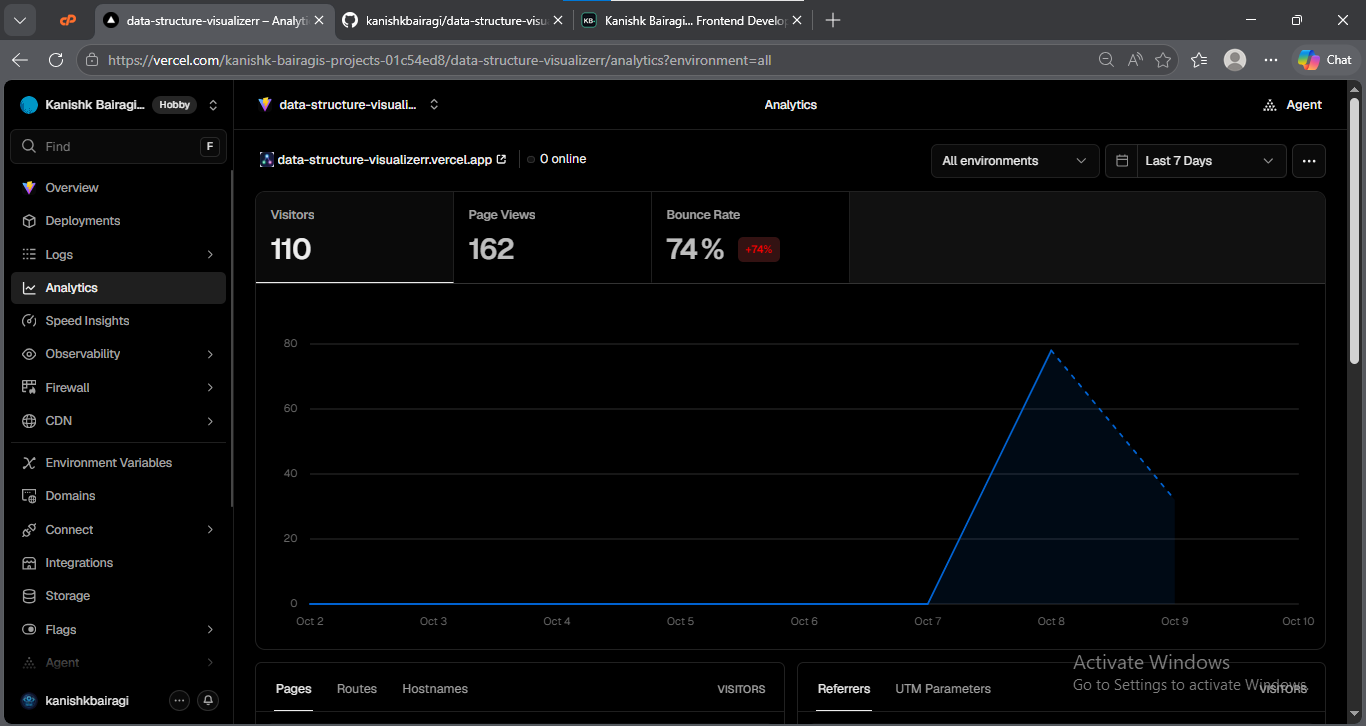
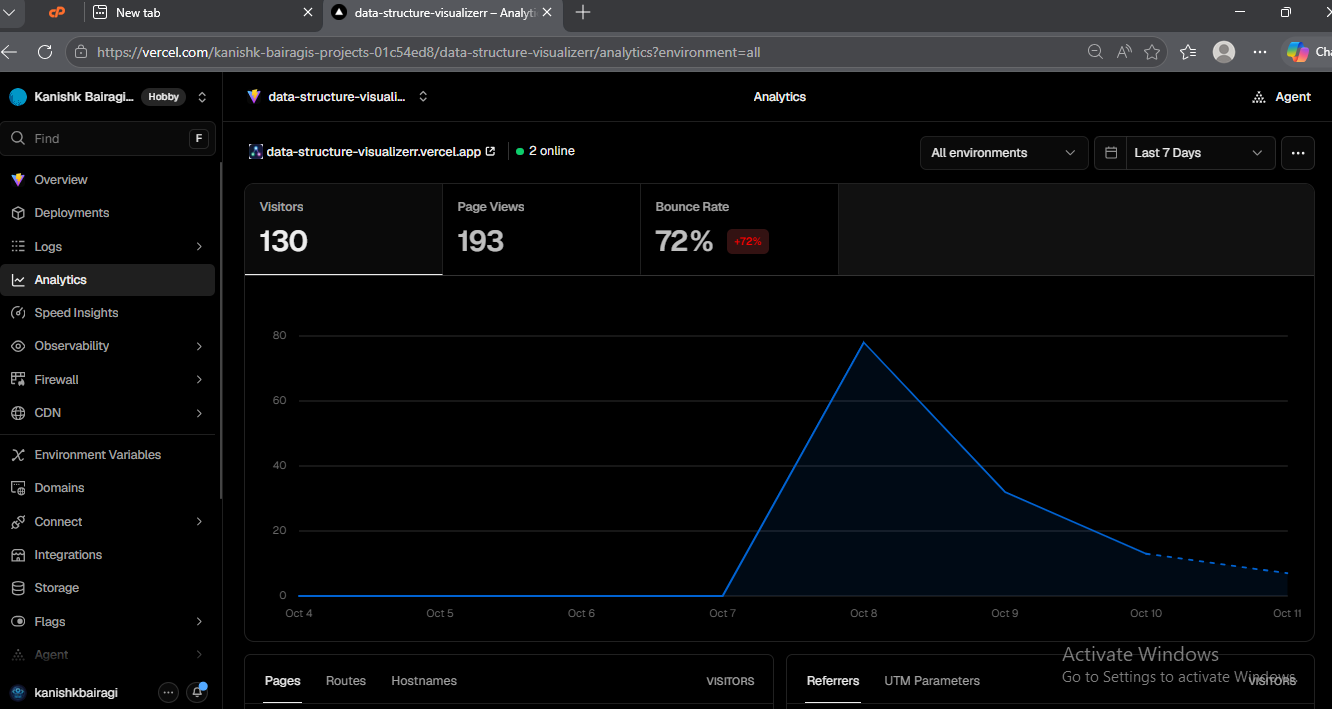
Portfolio Added

diff --git a/src/data/projects.js b/src/data/projects.js
@@ -115,12 +115,12 @@ export const projects = [
         demo: "https://data-structure-visualizerr.vercel.app",
         image: dataStructureImg,
         metaBadges: [
-            "110+ Verified Users (7 Countries)",
+            "130+ Verified Users (8 Countries)",
             "O(log N) AVL Guaranteed",
             "Vercel Telemetry"
         ],
         description: "Architected an interactive algorithmic execution engine visualizing amortized complexity, self-balancing tree rotations, and graph shortest path algorithms. Features state machines demonstrating contiguous memory reallocation, AVL tree invariants, and Dijkstra edge relaxations.",
-        overviewDescription: "Architected an interactive algorithmic execution engine visualizing amortized complexity, self-balancing tree rotations, and graph shortest path algorithms. Features state machines demonstrating contiguous memory reallocation, AVL tree invariants, and Dijkstra edge relaxations. Validated through production telemetry with 110+ international students testing runtime mechanics during algorithm coursework.",
+        overviewDescription: "Architected an interactive algorithmic execution engine visualizing amortized complexity, self-balancing tree rotations, and graph shortest path algorithms. Features state machines demonstrating contiguous memory reallocation, AVL tree invariants, and Dijkstra edge relaxations. Validated through production telemetry with 130+ international students testing runtime mechanics during algorithm coursework.",
         cardHighlights: [
             "Dynamic AVL Self-Balancing with 4 Rotation Archetypes (LL, RR, LR, RL) maintaining strict O(log N) search bounds.",
             "Dijkstra's Shortest Path Tree (SPT) with Real-Time Distance Vector Relaxation & Priority Queue simulation."
@@ -129,7 +129,7 @@ export const projects = [
             "Dynamic AVL Self-Balancing with 4 Rotation Archetypes (LL, RR, LR, RL) enforcing height bounds h < 1.44 log2(N+2).",
             "Dijkstra's Shortest Path Tree (SPT) with real-time distance-vector relaxation and Priority Queue extraction.",
             "Trie lexicographical traversal with sub-linear autocomplete prediction in O(L) time where L is word length.",
-            "Amortized analysis demonstrator with buffer doubling (C -> 2C); evaluated by 110+ international student users with 93% cross-platform mobile engagement."
+            "Amortized analysis demonstrator with buffer doubling (C -> 2C); evaluated by 130+ international student users across 8 countries."
         ],
         metrics: [
             { label: "Core ADTs", value: "7 Structures" },
@@ -149,25 +149,25 @@ export const projects = [
             title: "Production Telemetry & Real-World Adoption",
             description: "Empirical telemetry and interaction metrics collected from Vercel analytics demonstrating international student usage and cross-platform verification.",
             stats: [
-                { label: "Verified Users", value: "110+ Students", sub: "Peak Interaction" },
-                { label: "Interaction Sessions", value: "162 Page Views", sub: "Algorithmic Runs" },
-                { label: "Global Reach", value: "7 Countries", sub: "Multi-Region" },
+                { label: "Verified Users", value: "130+ Students", sub: "Peak Interaction" },
+                { label: "Interaction Sessions", value: "190+ Page Views", sub: "Algorithmic Runs" },
+                { label: "Global Reach", value: "8 Countries", sub: "Multi-Region" },
                 { label: "Mobile Responsiveness", value: "93% Mobile", sub: "Cross-Platform" }
             ],
             screenshots: [
                 {
                     id: 1,
                     title: "Live Traffic & Interaction Peak",
-                    metricBadge: "110+ Unique Visitors • 162 Page Views",
+                    metricBadge: "130+ Unique Visitors • 190+ Page Views",
                     image: data1Img,
-                    caption: "Live Traffic Telemetry: 110+ verified student users and 162 algorithmic interaction sessions."
+                    caption: "Live Traffic Telemetry: 130+ verified student users and 190+ algorithmic interaction sessions."
                 },
                 {
                     id: 2,
                     title: "Geographic Distribution & Device Breakdown",
-                    metricBadge: "7 Countries • 93% Mobile Responsiveness",
+                    metricBadge: "8 Countries • Multi-Region Demographics",
                     image: data2Img,
-                    caption: "Global Demographics: Multi-region adoption across 7 countries with 93% cross-platform mobile usage."
+                    caption: "Global Demographics: Multi-region adoption across 8 countries (India, USA, UK, Switzerland, France, Netherlands, Philippines, Poland)."
                 }
             ]
         },
@@ -223,7 +223,7 @@ export const projects = [
                 { metric: "TRIE LOOKUP TIME", value: "O(L)", benchmark: "Sub-linear Prefix Traversal", status: "Optimal" },
                 { metric: "ARRAY APPEND COST", value: "Amortized O(1)", benchmark: "Verified via Buffer Doubling", status: "Optimal" },
                 { metric: "RENDERING TARGET", value: "60 FPS", benchmark: "Throttled Async Frame Queue", status: "Optimal" },
-                { metric: "ACADEMIC ADOPTION", value: "110+ Verified Users", benchmark: "7 Countries • Vercel Telemetry", status: "Telemetry" }
+                { metric: "ACADEMIC ADOPTION", value: "130+ Verified Users", benchmark: "8 Countries • Vercel Telemetry", status: "Telemetry" }
             ]
         }
     },

diff --git a/src/components/ProjectModal.jsx b/src/components/ProjectModal.jsx
@@ -374,7 +374,7 @@ const ProjectModal = ({ project, isOpen, onClose }) => {
                                             <div className="flex items-center gap-1.5 shrink-0">
                                                 <span className="inline-flex items-center gap-1 rounded-full border border-accent/30 bg-accent/10 px-2.5 py-0.5 text-[10px] sm:text-xs font-semibold text-accent">
                                                     <Activity size={11} className="animate-pulse" />
-                                                    110+ Users Across 7 Countries
+                                                    130+ Users Across 8 Countries
                                                 </span>
                                             </div>
                                         </div>

diff --git a/README.md b/README.md
@@ -36,7 +36,7 @@ Beyond conventional portfolio websites, this platform functions as an **interact
 
 - ⚡ **Zero Layout Shift (CLS 0.00)** & sub-1.1s First Contentful Paint (FCP) across 46 enterprise routes.
 - 🌳 **Interactive Invariant Visualizer** with verified runtime bounds: $O(\log N)$ AVL tree balance and $O((V+E)\log V)$ Dijkstra shortest path trees.
-- 🌍 **Verified Real-World Telemetry**: Production visualizer evaluated by **110+ international students across 7 countries** with 93% cross-platform mobile adoption.
+- 🌍 **Verified Real-World Telemetry**: Production visualizer evaluated by **130+ international students across 8 countries** with 93% cross-platform mobile adoption.
 - 📐 **Formal Graph Theory Engines**: Directed Acyclic Graph (DAG) cycle rejection via 3-color DFS in $O(|V| + |E|)$ and Kahn’s topological sort.
 - 🔍 **Sub-2ms Information Retrieval**: Canvas-based $n$-body force-directed physics graph with Okapi BM25 probabilistic ranking ($k_1=1.2, b=0.75$) and prefix Trie lookup in $O(L)$ time.
 
@@ -47,7 +47,7 @@ Beyond conventional portfolio websites, this platform functions as an **interact
 | Project | Domain & Role | Core Architecture & Algorithmic Rigor | Key Metrics & Invariants | Links |
 | :--- | :--- | :--- | :--- | :--- |
 | **[Jawam Infotech Official Platform](https://jawaminfotech.com/)** | Enterprise Full-Stack & Frontend Intern (2026) | 46-route React SPA with route-level dynamic code splitting (`React.lazy` / `Suspense`), chunked asynchronous AI chat streaming with token sanitization, and WebP/AVIF asset transcoding. | **Lighthouse 96+**<br>FCP: 1.05s, LCP: 1.78s<br>Media payload: **-72%** (45MB → 8.2MB) | [Live Demo](https://jawaminfotech.com/) • [GitHub](https://github.com/kanishkbairagi/Jawam-project.git) |
-| **[Algorithmic State Engine & Visualizer](https://data-structure-visualizerr.vercel.app)** | Algorithm & Systems Engineering (2025) | Decoupled state execution engine animating contiguous memory reallocation, dynamic AVL self-balancing across 4 rotation archetypes (LL, RR, LR, RL), and Dijkstra priority queue edge relaxations. | **110+ Verified Users** (7 Countries)<br>AVL Search: $O(\log N)$<br>Dijkstra: $O((V+E)\log V)$<br>Append: Amortized $O(1)$ | [Live Demo](https://data-structure-visualizerr.vercel.app) • [GitHub](https://github.com/kanishkbairagi/data-structure-visualizerr) |
+| **[Algorithmic State Engine & Visualizer](https://data-structure-visualizerr.vercel.app)** | Algorithm & Systems Engineering (2025) | Decoupled state execution engine animating contiguous memory reallocation, dynamic AVL self-balancing across 4 rotation archetypes (LL, RR, LR, RL), and Dijkstra priority queue edge relaxations. | **130+ Verified Users** (8 Countries)<br>AVL Search: $O(\log N)$<br>Dijkstra: $O((V+E)\log V)$<br>Append: Amortized $O(1)$ | [Live Demo](https://data-structure-visualizerr.vercel.app) • [GitHub](https://github.com/kanishkbairagi/data-structure-visualizerr) |
 | **[Topological Knowledge Graph & IR Engine](https://notation-app-six.vercel.app/)** | Systems & Information Retrieval (2025) | HTML5 Canvas $n$-body force-directed physics engine (Coulomb repulsion & Hooke spring relaxation), Okapi BM25 probabilistic lexical retrieval, prefix Trie autocomplete, and BFS pathfinding. | Query Latency: **< 1.8ms**<br>Physics: **60 FPS**<br>BFS: $O(\|V\| + \|E\|)$<br>Prefix: $O(L)$ | [Live Demo](https://notation-app-six.vercel.app/) • [GitHub](https://github.com/kanishkbairagi/notation-app.git) |
 | **[Visual Habit Graph (VHG)](https://visual-habit-graph.vercel.app/)** | Full-Stack & Systems (2025) | Directed Acyclic Graph (DAG) dependency engine with 3-color DFS back-edge cycle prevention, Kahn’s topological stratification, and Critical Path Method (CPM) dynamic programming. | Cycle Reject: $O(\|V\| + \|E\|)$<br>Topological Sort: $O(\|V\| + \|E\|)$<br>CPM Slack: $0$ critical path | [Live Demo](https://visual-habit-graph.vercel.app/) • [GitHub](https://github.com/kanishkbairagi/visual-habit-graph.git) |
 | **[Emoji Mood Diary](https://emoji-based-mood-diary-with-color-a.vercel.app/)** | Interactive Web Apps (2025) | Color-adaptive mood tracking application featuring state-driven emotion transitions, micro-animations, and persistent local storage journals. | Instantaneous transitions<br>Responsive UI states | [Live Demo](https://emoji-based-mood-diary-with-color-a.vercel.app/) • [GitHub](https://github.com/kanishkbairagi/emoji-based-mood-diary-with-color-adaptive-themes.git) |
